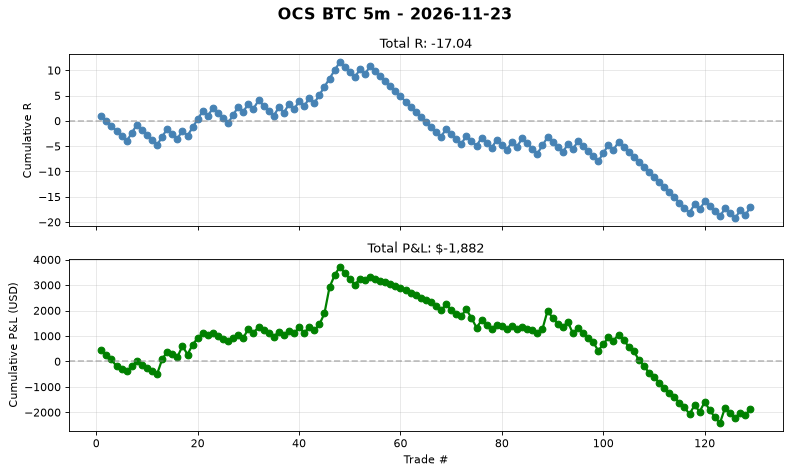
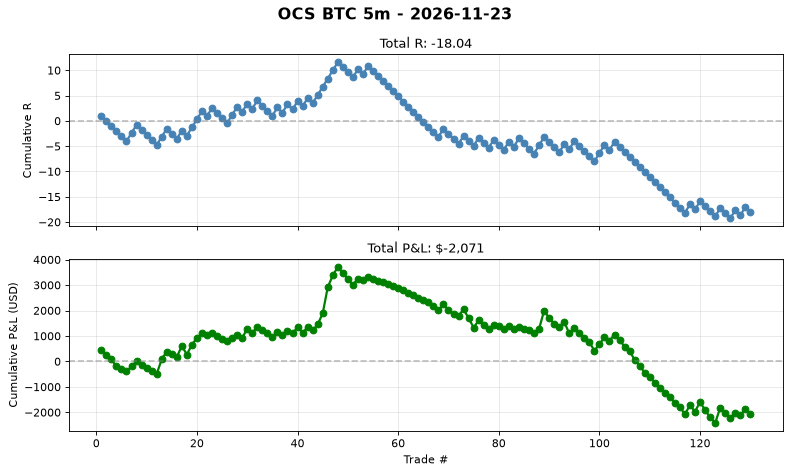
auto(ocs-btc): signal log 2026-11-22T23:04 trades=130

diff --git a/automation/reports/ocs_btc_5m/daily/2026-11-23.md b/automation/reports/ocs_btc_5m/daily/2026-11-23.md
@@ -2,4 +2,4 @@
 
 **No trades today.**
 
-Cumulative stats: 129 trades | WR 33.3% | avg R -0.132
+Cumulative stats: 130 trades | WR 33.1% | avg R -0.139
